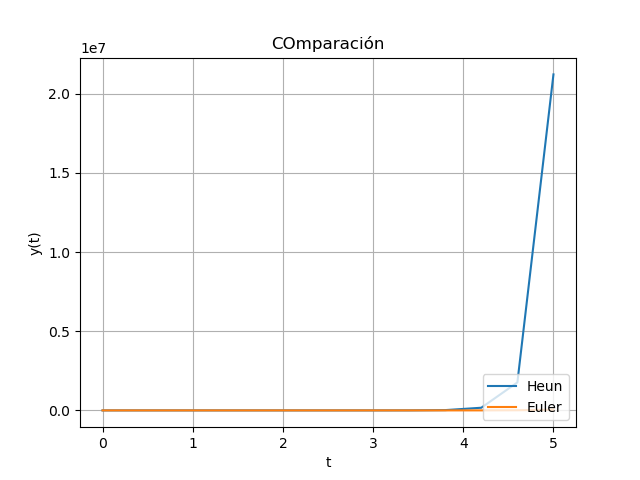
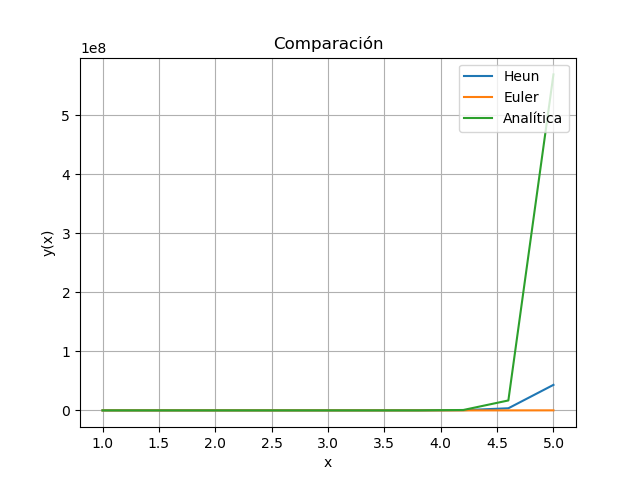
anterror

diff --git a/Practica5/practica5_ejercicio1.py b/Practica5/practica5_ejercicio1.py
@@ -2,7 +2,7 @@ import math
 import numpy as np
 import matplotlib.pyplot as plt
 
-def heun_method( f, a, b, N, IV ):
+def heun( f, a, b, N, IV ):
     h = (b-a)/float(N)
     t = np.arange( a, b+h, h )
     w = np.zeros((N+1,))
@@ -14,7 +14,7 @@ def heun_method( f, a, b, N, IV ):
     return w,t
 
 
-def euler_mthd( f, a, b, N, IV ):
+def euler( f, a, b, N, IV ):
     h = (b-a)/float(N)
     t = np.arange( a, b+h, h )
     w = np.zeros((N+1,))
@@ -23,28 +23,56 @@ def euler_mthd( f, a, b, N, IV ):
         w[i] = w[i-1] + h * f( t[i-1], w[i-1] )
     return w,t
 
+def evalua(f,a,b,N,IV):
+    h=(b-a)/float(N)
+    t=np.arange(a,b+h,h)
+    w = np.zeros((N+1,))
+    t[0], w[0] = IV
+    for i in range(1,N+1):
+        w[i] = f(t[i-1],w[i-1])
+    return w,t
 
-def errorRelativo(derAnalitica,derivadaNumerica):
-    return np.absolute((derAnalitica-derivadaNumerica)/derAnalitica)*100
+
+def errorRelativoArray(analitica,numerica):
+    if (len(analitica)==len(numerica)):
+        error=[]
+        for i in range(len(analitica)):
+            error.append(np.absolute((analitica[i]-numerica[i])/analitica[i])*100)
+        return error;
 
 
 def f(x,y):
     return 2*x*y
 
-
-
-heun=heun_method(f,1,5,10,[0,1])
-euler=euler_mthd(f,1,5,10,[0,1])
-
 #Analitic e**(x**2-1)
+def f1(x,y):
+    return np.exp(x**2-1)
 
+heun=np.array(heun(f,1,5,10,[1,1]))
+euler=np.array(euler(f,1,5,10,[1,1]))
+analitica=np.array(evalua(f1,1,5,10,[1,1]))
+
+heunError=np.array(errorRelativoArray(analitica[0],heun[0]))
+eulerError=np.array(errorRelativoArray(analitica[0],euler[0]))
+
+
+def sumaDeArreglos(array1,array2):
+    if (len(array1)==len(array2)):
+        res=[]
+        for i in range(len(array1)):
+            res.append(array1[i]+array2[i])
+        return error;
+print(heun)
+print(heunError)
+print(eulerError)
 
 plt.plot( heun[1], heun[0], label='Heun' )
 plt.plot( euler[1], euler[0], label='Euler' )
-plt.title( "COmparación" )
-plt.xlabel('t')
-plt.ylabel('y(t)')
-plt.legend(loc=4)
+plt.plot(analitica[1],analitica[0],label='Analítica')
+plt.title( "Comparación" )
+plt.xlabel('x')
+plt.ylabel('y(x)')
+plt.legend(loc=1)
 plt.grid()
 plt.savefig( 'ecomparacion.png', fmt='PNG', dpi=100 )
 plt.show()
